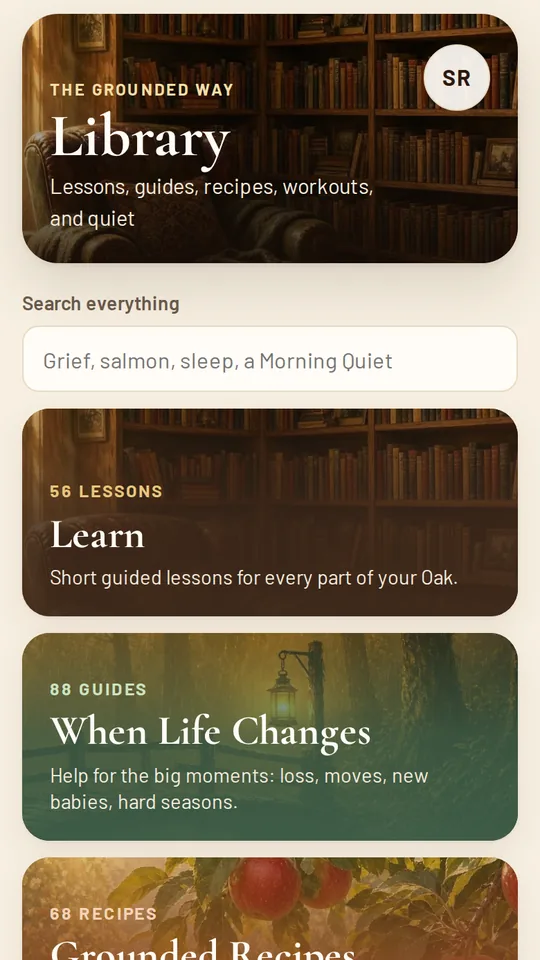
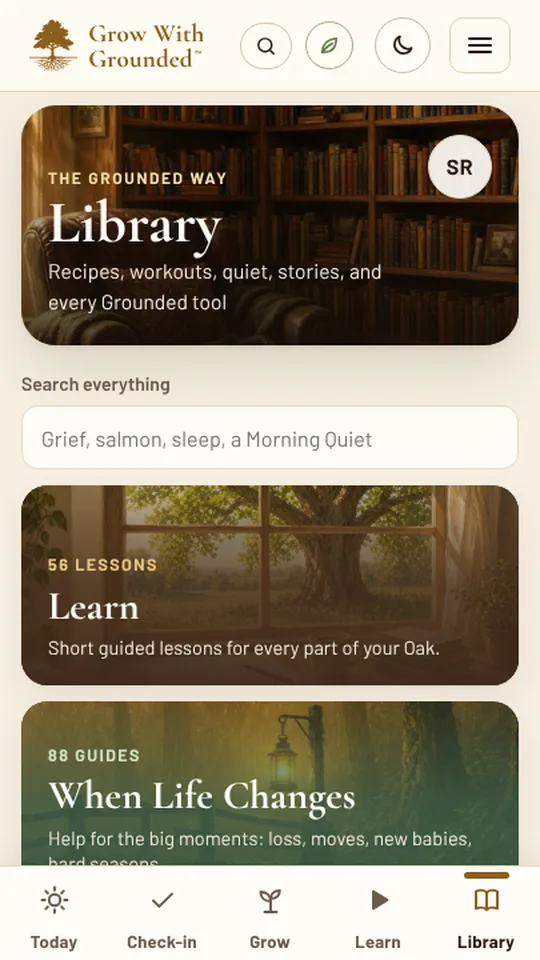
BLD 911: one Grounded Meditation shelf; Grounded Fitness and Grounded Seasons names; lesson cards painted by topic; The Grounded Way page shows the five tabs with new app pictures
Claude-Session: https://claude.ai/code/session_01WcZgsAiFdTphwpdYq1mWZF

diff --git a/home/home.js b/home/home.js
@@ -801,7 +801,7 @@
   var SUBS = {
     today: { log: 'Log a Plate or a Note', tending: 'Tending' },
     week: { holidays: 'Holidays and Gatherings', shop: 'Shopping List', prep: 'Sunday Together Prep', own: 'My Own Items' },
-    library: { holidays: 'Holidays and Gatherings', workouts: 'Workouts' },
+    library: { holidays: 'Holidays and Gatherings', workouts: 'Grounded Fitness' },
     me: { numbers: 'Numbers', household: 'Household', settings: 'Settings', privacy: 'Privacy' }
   };
   // The old section names, for the fallback while GGHealth.render is missing.
@@ -935,7 +935,7 @@
     var root = app(), tab = r.tab === 'me' ? (S.under || 'today') : r.tab;
     if (r.tab !== 'me') { S.under = tab; S.sheetDepth = 0; S.sheetPushed = 0; }
     var sub = r.tab === 'me' ? '' : r.sub, body;
-    if (sub) body = subbarHtml(tab, sub) + '<div id="hm-tend" class="hm-sec" data-sec="' + sub + '"><div class="hm-loading">Opening ' + esc(SUBS[tab][sub]) + '…</div></div>';
+    if (sub) body = subbarHtml(tab, sub) + (sub === 'quiet' ? medTopHtml() : '') + '<div id="hm-tend" class="hm-sec" data-sec="' + sub + '"><div class="hm-loading">Opening ' + esc(SUBS[tab][sub]) + '…</div></div>';
     else body = tabHtml(tab);
     root.innerHTML = shellHtml(tab, body);
     paintTabbar(tab);
@@ -1827,9 +1827,11 @@
       { id: 'life', name: 'When Life Changes', count: lc ? cnt(lc.length, 'guide', 'guides') : '', plain: 'Guides for big moments', line: 'Help for the big moments: loss, moves, new babies, hard seasons.', cls: 'hm-sh-life', art: HERO + 'page-hard-seasons-narrow.webp' },
       // BLD 899 (Chris: "holiday gatherings [needs no] card in library just put this in the recipes"): Holidays and Gatherings lives inside Grounded Recipes.
       { id: 'recipes', name: 'Grounded Recipes', count: cnt(rc, 'recipe', 'recipes'), plain: 'Every meal', line: 'Every meal, party food, sauces and dressings, celebration drinks, and the holidays, sized for your table' + (tableOf() ? ' of ' + tableOf() : '') + ', guided step by step.', cls: 'hm-sh-rec', art: IMG + 'recipes-narrow.webp' },
-      member() ? { id: 'workouts', name: 'Workouts', count: cnt(num(c.workouts), 'workout', 'workouts'), plain: 'Every Workout', line: 'Every workout we have built, by category, with a coach.', cls: 'hm-sh-work', art: IMG + 'move-strength.webp' } : null,
-      member() ? { id: 'quiet', name: 'Quiet and Meditation', count: cnt(num(c.meditations), 'practice', 'practices'), plain: 'Morning and evening', line: 'Breath and stillness, and a sacred practice when you choose it.', cls: 'hm-sh-quiet', art: IMG + 'quiet-meditation.webp' }
-        : { id: 'quiet', name: 'Quiet', count: '', plain: 'Today\'s meditation', line: 'Today\'s meditation, Morning Quiet, and Get Grounded Now: calm in a minute or two.', cls: 'hm-sh-quiet', art: IMG + 'quiet-meditation.webp' }
+      member() ? { id: 'workouts', name: 'Grounded Fitness', count: cnt(num(c.workouts), 'workout', 'workouts'), plain: 'Every Workout', line: 'Every workout, by category, with a coach, and the 12-week program.', cls: 'hm-sh-work', art: IMG + 'move-strength.webp' } : null,
+      // BLD 911 (Chris: "we have 2 meditation sets too.. join or rename", then "1"): one Grounded Meditation: today's pick, your
+      // week of seven (Tending's), and the full library by need (Membership), on one shelf.
+      member() ? { id: 'quiet', name: 'Grounded Meditation', count: cnt((num(c.meditations) || 0) + mItems('meditation').length, 'meditation', 'meditations'), plain: 'Today, your week, and the library', line: 'Today\'s meditation, your week of seven, and the full library for sleep, worry, grief, focus, and more.', cls: 'hm-sh-quiet', art: IMG + 'quiet-meditation.webp' }
+        : { id: 'quiet', name: 'Grounded Meditation', count: '', plain: 'Today\'s meditation', line: 'Today\'s meditation, Morning Quiet, and Get Grounded Now: calm in a minute or two.', cls: 'hm-sh-quiet', art: IMG + 'quiet-meditation.webp' }
     ].filter(Boolean);
   }
   function shelfHtml(s) {
@@ -1887,7 +1889,7 @@
     else if (id === 'workouts') goTo('library=workouts');
     else if (id === 'quiet') { if (!member()) { openDailyMed(); return; } if (hasFn('render') && hasFn('counts') && num((hCall('counts') || {}).meditations)) goTo('library=quiet'); else openFrame(new URL('/get-grounded-now.html', location.href)); }
   }
-  SUBS.library.quiet = 'Quiet and Meditation';
+  SUBS.library.quiet = 'Grounded Meditation';
   OLDSEC.quiet = 'today';
 
   /* ---------- the profile sheet ---------- */
@@ -2473,7 +2475,7 @@
       var mm = arr(info.medMins), meds = arr(info.meds);
       b = wpK('Mind · grows Bark', 'bark') + wpH('A quiet place in your day') + '<p class="hm-wp-lead">Seven guided meditations, a new one each day of the week' + (mm.length === 2 ? ', about ' + mm[0] + ' minutes to start, growing to ' + mm[1] : '') + '.</p>' +
         '<div>' + wpLbl('How often') + '<div class="hm-wp-chips">' + Object.keys(WP_MED).map(function (k) { return wpChip('set:med:' + k, WP_MED[k], d.med === k, 'bark'); }).join('') + '</div></div>' +
-        (d.med !== 'later' ? '<div>' + wpLbl('When') + '<div class="hm-wp-chips">' + [['morning', 'Morning'], ['afternoon', 'Afternoon'], ['evening', 'Evening']].map(function (x) { return wpChip('set:medTime:' + x[0], x[1], d.medTime === x[0], 'bark'); }).join('') + '</div></div>' : '<p class="hm-wp-lead sm">Meditation waits in the Library, under Quiet and Meditation, whenever you like.</p>') +
+        (d.med !== 'later' ? '<div>' + wpLbl('When') + '<div class="hm-wp-chips">' + [['morning', 'Morning'], ['afternoon', 'Afternoon'], ['evening', 'Evening']].map(function (x) { return wpChip('set:medTime:' + x[0], x[1], d.medTime === x[0], 'bark'); }).join('') + '</div></div>' : '<p class="hm-wp-lead sm">Meditation waits in the Library, under Grounded Meditation, whenever you like.</p>') +
         (meds.length && d.med !== 'later' ? '<div class="hm-wp-card">' + wpK(d.med === 'daily' ? 'This week' : d.med === 'few' ? 'Tuesday, Thursday, and Saturday' : 'Sunday', 'bark') + '<small class="hm-wp-small">' + esc(meds.filter(function (m) { return wpMedOn(d.med, WP_DOW.indexOf(m.day)); }).map(function (m) { return m.title; }).join(', ')) + '</small></div>' : '');
       f = wpBtn('next', 'Next');
     } else if (i === 4) {
@@ -3173,7 +3175,7 @@
   var INVITE = {
     plan: ['The Full Growth Plan', 'Membership opens every practice you choose, each day, plus your own custom practices, trends, practice history, and reminders.'],
     tend: ['Grounded Nutrition and Grounded Fitness', 'Membership opens meal plans, My Menu, one shopping list, Sunday Together Prep, Grounded Cooking in your plan, health numbers, the 12-week program, and every guided workout with a coach.'],
-    library: ['Grow Deeper', 'Membership opens the Grounded Meditation library, Grounded Spirit programs, Grounded Relationships programs, the seasons programs, and every Grounded Story read aloud.'],
+    library: ['Grow Deeper', 'Membership opens the Grounded Meditation library, Grounded Spirit programs, Grounded Relationships programs, Grounded Seasons, and every Grounded Story read aloud.'],
     numbers: ['Your Health Numbers', 'Membership opens Labs, the LDL Path, My Heart Risk, and PREVENT, kept on this device inside your locked profile.'],
     sober: ['Living Sober, the Whole Year', 'Membership opens daily words for every day of the year, Living Sober Together, and My Week trends.']
   };
@@ -3359,7 +3361,7 @@
     { id: 'meditation', name: 'Grounded Meditation', line: 'Guided meditations for sleep, worry, grief, focus, and more.', art: IMG + 'quiet-meditation.webp', cls: 'hm-sh-quiet' },
     { id: 'spirit', name: 'Grounded Spirit', line: 'Deeper guided programs for your connection with God and the sacred, in your own tradition or your own way.', art: IMG + 'tend-spirit.webp', cls: 'hm-sh-learn' },
     { id: 'relationships', name: 'Grounded Relationships', line: 'Listening, repair, unplugged time, family dinner, and a weekly connection plan.', art: IMG + 'tend-people.webp', cls: 'hm-sh-life' },
-    { id: 'seasons', name: 'Seasons Programs', line: 'Guided programs for the seasons of life, and Living Sober for the whole year.', art: HERO + 'page-hard-seasons-narrow.webp', cls: 'hm-sh-life' }
+    { id: 'seasons', name: 'Grounded Seasons', line: 'Guided programs for the seasons of life, and Living Sober for the whole year.', art: HERO + 'page-hard-seasons-narrow.webp', cls: 'hm-sh-life' }
   ];
   /* A section may be a list of items, {items: [...]}, or {programs: [{title, items or sessions}]}; items carry scenes. */
   function mItems(name) {
@@ -3375,7 +3377,7 @@
   }
   function mShelfHtml() {
     if (!member()) return '';
-    return MSHELVES.map(function (s) { var n = mItems(s.id).length; return shelfHtml({ id: 'm-' + s.id, name: s.name, count: n ? n + (n === 1 ? ' session' : ' sessions') : 'Membership', plain: 'Membership', line: s.line, cls: s.cls, art: s.art }); }).join('');
+    return MSHELVES.filter(function (s) { return s.id !== 'meditation'; }).map(function (s) { var n = mItems(s.id).length; return shelfHtml({ id: 'm-' + s.id, name: s.name, count: n ? n + (n === 1 ? ' session' : ' sessions') : 'Membership', plain: 'Membership', line: s.line, cls: s.cls, art: s.art }); }).join('');
   }
   function openMShelf(id) {
     var s = MSHELVES.filter(function (x) { return x.id === id; })[0]; if (!s) return;
@@ -3444,6 +3446,13 @@
     var x = window.GG_START_VIDEOS && !plainNow() ? dailyMed('spirit') : null; if (!x) return '';
     return '<article class="hm-card hm-p-roots hm-dmed"><div class="hm-hd">' + pb(IMG + 'tend-spirit.webp') + '<div style="min-width:0"><div class="hm-k">Today\'s Spirit Practice</div><h3 class="hm-h3">' + esc(x.title) + '</h3></div></div><p class="hm-sub">' + esc((x.mins ? 'About ' + x.mins + ' minutes. ' : '') + (x.blurb || '')) + '</p><div class="hm-acts tight"><button type="button" class="hm-btn sm hm-pill" data-hm-dmed="spirit">' + I('play') + 'Begin</button></div></article>';
   }
+  /* Grounded Meditation's top (BLD 911): today's pick, then the full library by need; Tending's week of seven follows. */
+  function medTopHtml() {
+    var n = mItems('meditation').length;
+    var dm = dailyMedHtml(), sp = dailySpiritHtml(); if (sp && dm.indexOf(sp) === 0) dm = dm.slice(sp.length);
+    return dm + (n ? '<article class="hm-card hm-gcard hm-p-bark"><div class="hm-hd">' + pb(IMG + 'quiet-meditation-sq.webp') + '<div><div class="hm-time">The Full Library</div><h3 class="hm-h3">' + n + ' Meditations by Need</h3></div></div><p class="hm-sub">Sleep, worry, grief, focus, and more, each one guided.</p><div class="hm-acts tight"><button type="button" class="hm-btn sm hm-pill" data-hm-shelf="m-meditation">' + I('play') + 'Open the Library</button></div></article>' : '') +
+      '<h2 class="hm-label">Your Week of Meditation</h2>';
+  }
   function openDailyMed(sec) {
     load(START_JS).then(function () {
       var x = dailyMed(sec); if (!x) { openFrame(new URL('/get-grounded-now.html', location.href)); return; }
@@ -3495,9 +3504,19 @@
   var ART_JS = '/shared/learn-art.js?v=b908';
   function heroSrc(im) { return /\//.test(im) ? HERO + im + '.webp' : im === 'marriage' ? '/heartwood/hero-wide.webp' : HERO + im + '-wide.webp'; }
   // A lesson's painting: the first painting in its art plan (shared/learn-art.js), or the tree's own painting.
-  function lessonArt(app, id, i) {
-    void i;
-    return planArt(app + ':' + id) || planArt(id) || treeArt(app);
+  // A lesson card's painting by its topic (BLD 911: the art plans spread paintings across scenes, so the first one can miss
+  // the topic); the tree's own painting for welcomes, check-ins, and anything else.
+  var TOPIC_ART = [
+    [/roots|spirit|prayer|faith|sacred|gratitude/i, IMG + 'tend-spirit.webp'], [/bark|mind|worry|anxi|calm|breath|stress|sleep/i, IMG + 'tend-mind.webp'],
+    [/leaves|body|move|walk|stretch|food|eat|meal/i, IMG + 'tend-move.webp'], [/branches|relationship|family|friend|marriage|together|household/i, IMG + 'tend-people.webp'],
+    [/trunk|meaning|purpose|values/i, HERO + 'page-growth-narrow.webp'], [/fruit|hope|joy/i, IMG + 'tend-fruit.webp'],
+    [/growth plan|practice|plan\b/i, IMG + 'growth-plan.webp'], [/when life changes|grief|loss|hard season/i, HERO + 'page-hard-seasons-narrow.webp'],
+    [/today, week|season|rings|progress/i, IMG + 'this-season.webp']
+  ];
+  function lessonArt(app, id, i, title) {
+    void i; var s = String(title || '');
+    for (var k = 0; k < TOPIC_ART.length; k++) if (TOPIC_ART[k][0].test(s)) return TOPIC_ART[k][1];
+    void id; return treeArt(app);
   }
   // BLD 911 (Chris: "when pet dies has table with plates of food"): every card shows its own painting, from its own video's
   // art plan; a card with no plan shows its tree's painting.
@@ -3515,7 +3534,7 @@
   }
   function findLesson(tree, id) { var out = null; arr(tracksOf(tree)).forEach(function (t) { arr(t.lessons).forEach(function (l) { if (l && l.id === id) out = { l: l, t: t }; }); }); return out; }
   function lessonCard(tree, l, i) {
-    return '<button type="button" class="hm-lcard" data-hm-lesson="' + esc(l.id) + '"><span class="im"><img src="' + lessonArt(tree, l.id, i) + '" alt="" loading="lazy" decoding="async"><span class="pl">' + I('play') + '</span></span><span class="tx"><b>' + esc(l.title || '') + '</b>' + (l.mins ? '<small>' + esc(l.mins) + ' minutes</small>' : '') + '</span></button>';
+    return '<button type="button" class="hm-lcard" data-hm-lesson="' + esc(l.id) + '"><span class="im"><img src="' + lessonArt(tree, l.id, i, l.title) + '" alt="" loading="lazy" decoding="async"><span class="pl">' + I('play') + '</span></span><span class="tx"><b>' + esc(l.title || '') + '</b>' + (l.mins ? '<small>' + esc(l.mins) + ' minutes</small>' : '') + '</span></button>';
   }
   function rowHtml(title, sub, cards) { return '<div class="hm-lrow"><h2 class="hm-label">' + esc(title) + '</h2>' + (sub ? '<p class="hm-sub hm-lrsub">' + esc(sub) + '</p>' : '') + '<div class="hm-lscroll">' + cards + '</div></div>'; }
   function lifeTopics(tree) {

diff --git a/the-grounded-way.html b/the-grounded-way.html
@@ -65,7 +65,7 @@
 .gw .cer-cta-band .btn{margin:6px;}
 .gw-launch{display:inline-block;margin:14px auto 0;padding:6px 16px;border-radius:999px;background:#C9952F;color:#2C1810;font-family:'Barlow Condensed',sans-serif;font-weight:700;font-size:16px;letter-spacing:1.4px;text-transform:uppercase;line-height:1.3;}
 .cer-cta-band .gw-launch{margin:0 0 14px;}
-/* BLD 884: How It Works, the four tabs with real pictures of the app (desktop and phone) */
+/* BLD 884: How It Works, the tabs with real pictures of the app (five since BLD 911) (desktop and phone) */
 .gw-tabs{display:flex;flex-direction:column;gap:44px;margin-top:30px;}
 .gw-tab{display:grid;grid-template-columns:minmax(0,1fr) minmax(0,1.55fr);gap:36px;align-items:center;}
 .gw-tab:nth-child(even) .gw-shot{order:-1;}
@@ -207,7 +207,7 @@
     <h2>Start today, and go as deep as you like.</h2>
     <div class="gw-tiers">
       <div class="card" style="--k:#5F7D48"><h3>Start</h3><p>Open to you today: your profile and age tree, quick and full check-ins, a basic growth plan with one practice a day for each of the four, Do Tomorrow, Today&rsquo;s Encouragement and the mantra, Living Sober daily, calm and grounding practices, one daily meditation, and core Spirit practices. On the website: Grounded Recipes, the Readings Library, When Life Changes, Get Grounded Now, and Stories.</p></div>
-      <div class="card" style="--k:#8B5E1A"><h3>Member</h3><p>One membership, the full suite: Grounded Nutrition and Grounded Fitness, Grounded Meditation, deeper Spirit programs, Grounded Relationships with the Grove, the full growth plan, the seasons programs, and Grounded Stories read aloud. Membership opens soon.</p></div>
+      <div class="card" style="--k:#8B5E1A"><h3>Member</h3><p>One membership, the full suite: Grounded Nutrition and Grounded Fitness, Grounded Meditation, deeper Spirit programs, Grounded Relationships with the Grove, the full growth plan, Grounded Seasons, and Grounded Stories read aloud. Membership opens soon.</p></div>
       <div class="card" style="--k:#3F6F94"><h3>Household</h3><p>One membership for everyone in your home, up to six people, so the whole family grows together. Opens with Membership.</p></div>
       <div class="card" style="--k:#7A4E2D"><h3>Guided</h3><p>Walk The Grounded Way with a Certified Grounded Guide, trained and certified by Grow With Grounded to use Grounded tools. A Find a Guide directory is on the way.</p></div>
       <div class="card" style="--k:#7A3FA8"><h3>Organizations</h3><p>Churches, schools, and hospices can open The Grounded Way to everyone they serve, with Guide seats and training included. <a class="text-link" href="/organizations.html">Learn about organizations</a></p></div>
@@ -249,20 +249,22 @@
 <section id="how">
   <div class="wrap cp-body">
     <div class="eyebrow">How It Works</div>
-    <h2>Four tabs, one calm day.</h2>
-    <p class="gw-lead">The Grounded Way opens on Today. Four tabs along the bottom hold everything else, and each one is shown here just as it looks in the app.</p>
+    <h2>Five tabs, one calm day.</h2>
+    <p class="gw-lead">The Grounded Way opens on Today. Five tabs along the bottom hold everything else, and each one is shown here just as it looks in the app. Your tree comes from your profile, so every tab is made for your age.</p>
     <div class="gw-tabs">
-      <article class="gw-tab" id="tab-today"><div><p class="gw-n">Tab 1</p><h3>Today</h3><p>Your whole day in order, with Right Now at the top: your growth plan practices, meals, workouts, Morning Quiet, your meditation, and your tree check-in, each with a circle to tap when it is done. Beside the day sit For You Today, A Sacred Pause, Tonight&rsquo;s Question, and your progress.</p><p class="gw-try">Tap the circle on one practice, and watch the day fill.</p></div>
-        <figure class="gw-shot"><img class="gw-w" src="/shared/heroes/way/app/today-wide.webp?v=b884" alt="The Today tab on a computer: a big painted morning with the day and date, Right Now with the next practice, and Living Sober with today&rsquo;s mantra" width="1200" height="750" loading="lazy"><img class="gw-p" src="/shared/heroes/way/app/today-phone.webp?v=b884" alt="The Today tab on a phone: the day and date over a painted oak, the count tended today, and Right Now" width="540" height="960" loading="lazy"></figure></article>
-      <article class="gw-tab" id="tab-week"><div><p class="gw-n">Tab 2</p><h3>Week</h3><p>Seven days at a glance, or the whole month: dinners, workouts, and rest days, with Sunday Together Prep and the Weekly Batch. Add any recipe to My Menu or swap a meal, and one tap on the Shop button opens a single shopping list, sized for your table, with My Own Shopping Items alongside.</p><p class="gw-try">Look over the next few days and pick your shopping day.</p></div>
-        <figure class="gw-shot"><img class="gw-w" src="/shared/heroes/way/app/week-wide.webp?v=b884" alt="The Week tab on a computer: seven days, each with its dinner and workout, beside the button that opens the shopping list" width="1200" height="750" loading="lazy"><img class="gw-p" src="/shared/heroes/way/app/week-phone.webp?v=b884" alt="The Week tab on a phone: the shopping list button at the top, then the days with their dinners" width="540" height="960" loading="lazy"></figure></article>
-      <article class="gw-tab" id="tab-grow"><div><p class="gw-n">Tab 3</p><h3>Grow</h3><p>Your tree, with the four you tend and the two that grow, your Growing Edge, this season, your history, and your Growth Plan. Check-ins open right inside the app, and every practice you choose shows up on Today.</p><p class="gw-try">Open your Growth Plan and choose one practice to begin with.</p></div>
-        <figure class="gw-shot"><img class="gw-w" src="/shared/heroes/way/app/grow-wide.webp?v=b884" alt="The Grow tab on a computer: the tree painting with its parts, This Season, and Your Growth Plan" width="1200" height="750" loading="lazy"><img class="gw-p" src="/shared/heroes/way/app/grow-phone.webp?v=b884" alt="The Grow tab on a phone: the tree with Roots, Trunk, Bark, Branches, Leaves, and Fruit" width="540" height="960" loading="lazy"></figure></article>
-      <article class="gw-tab" id="tab-library"><div><p class="gw-n">Tab 4</p><h3>Library</h3><p>One search box for everything. Learn, When Life Changes, Grounded Recipes with Holidays and Gatherings, Every Workout, and Quiet and Meditation wait on bright painted shelves, made for your tree and your table.</p><p class="gw-try">Search one word, like sleep or calm, and see what is waiting.</p></div>
-        <figure class="gw-shot"><img class="gw-w" src="/shared/heroes/way/app/library-wide.webp?v=b884" alt="The Library tab on a computer: a search box over painted shelves for Learn, When Life Changes, Grounded Recipes, Workouts, and Quiet and Meditation" width="1200" height="750" loading="lazy"><img class="gw-p" src="/shared/heroes/way/app/library-phone.webp?v=b884" alt="The Library tab on a phone: search, then the Learn and When Life Changes shelves" width="540" height="960" loading="lazy"></figure></article>
+      <article class="gw-tab" id="tab-today"><div><p class="gw-n">Tab 1</p><h3>Today</h3><p>Your whole day in order, with Right Now at the top: your growth plan practices, meals, workouts, Morning Quiet, your meditation, and your tree, each with a circle to tap when it is done. Your week opens from here too, with dinners, workouts, Sunday Together Prep, and one shopping list.</p><p class="gw-try">Tap the circle on one practice when you do it, and watch your day fill.</p></div>
+        <figure class="gw-shot"><img class="gw-w" src="/shared/heroes/way/app/today-wide.webp?v=b911" alt="The Today tab on a computer: a big painted morning with the day and date, and Right Now with the next practice" width="1200" height="750" loading="lazy"><img class="gw-p" src="/shared/heroes/way/app/today-phone.webp?v=b911" alt="The Today tab on a phone: the day and date over a painted oak, and Right Now" width="540" height="960" loading="lazy"></figure></article>
+      <article class="gw-tab" id="tab-checkin"><div><p class="gw-n">Tab 2</p><h3>Check-in</h3><p>How each part of your tree is growing: Strong, Steady, or a Growing Edge. Check In or take a Quick Check-in right here, with questions made for your tree, and watch this season and your rings grow.</p><p class="gw-try">Take a Quick Check-in, about two minutes.</p></div>
+        <figure class="gw-shot"><img class="gw-w" src="/shared/heroes/way/app/checkin-wide.webp?v=b911" alt="The Check-in tab on a computer: the oak painting, your tree with each part, and This Season" width="1200" height="750" loading="lazy"><img class="gw-p" src="/shared/heroes/way/app/checkin-phone.webp?v=b911" alt="The Check-in tab on a phone: the oak painting over Check-in" width="540" height="960" loading="lazy"></figure></article>
+      <article class="gw-tab" id="tab-grow"><div><p class="gw-n">Tab 3</p><h3>Grow</h3><p>Your Growth Plan, one plan for your practices, body, mind, spirit, and your table, with your week, this season, your tree&rsquo;s own book, and your family.</p><p class="gw-try">Open your Growth Plan and choose one practice to begin with.</p></div>
+        <figure class="gw-shot"><img class="gw-w" src="/shared/heroes/way/app/grow-wide.webp?v=b911" alt="The Grow tab on a computer: Your Oak Grows With You, Your Week, This Season, and Your Growth Plan" width="1200" height="750" loading="lazy"><img class="gw-p" src="/shared/heroes/way/app/grow-phone.webp?v=b911" alt="The Grow tab on a phone: painted cards for your tree, your week, and your season" width="540" height="960" loading="lazy"></figure></article>
+      <article class="gw-tab" id="tab-learn"><div><p class="gw-n">Tab 4</p><h3>Learn</h3><p>Short lessons and guides for when life changes, chosen for your tree, each one playing right here in a small window.</p><p class="gw-try">Play one lesson, about three minutes.</p></div>
+        <figure class="gw-shot"><img class="gw-w" src="/shared/heroes/way/app/learn-wide.webp?v=b911" alt="The Learn tab on a computer: rows of painted lessons chosen for your tree" width="1200" height="750" loading="lazy"><img class="gw-p" src="/shared/heroes/way/app/learn-phone.webp?v=b911" alt="The Learn tab on a phone: For You, Lessons, and When Life Changes, with painted lessons" width="540" height="960" loading="lazy"></figure></article>
+      <article class="gw-tab" id="tab-library"><div><p class="gw-n">Tab 5</p><h3>Library</h3><p>One search box for everything: Grounded Recipes with Holidays and Gatherings, Grounded Fitness, Grounded Meditation, and every Grounded tool, on bright painted shelves made for your tree and your table.</p><p class="gw-try">Search one word, like sleep or calm, and see what is waiting.</p></div>
+        <figure class="gw-shot"><img class="gw-w" src="/shared/heroes/way/app/library-wide.webp?v=b911" alt="The Library tab on a computer: a search box over painted shelves" width="1200" height="750" loading="lazy"><img class="gw-p" src="/shared/heroes/way/app/library-phone.webp?v=b911" alt="The Library tab on a phone: search, then the painted shelves" width="540" height="960" loading="lazy"></figure></article>
     </div>
     <div class="gw-also">
-      <div class="card" style="--k:#8B5E1A"><h3>Your Initials</h3><p>Tap your initials, top right, for Numbers, Household, Settings, and Privacy, plus How It Works, a short painted tour of the four tabs. The tour greets you the first time you open The Grounded Way.</p></div>
+      <div class="card" style="--k:#8B5E1A"><h3>Your Initials</h3><p>Tap your initials, top right, for Numbers, Household, Settings, and Privacy, plus Who Is Tending? for everyone on your device, and How It Works, a short painted tour of the five tabs. The tour greets you the first time you open The Grounded Way.</p></div>
       <div class="card" style="--k:#5F7D48"><h3>Your Practices</h3><p>Every practice in your tree&rsquo;s Growth Plan becomes its own card on Today, in the order of your day. A check on Today counts in your tree too, so your progress and seasons keep growing.</p></div>
       <div class="card" style="--k:#3F6F94"><h3>Living Sober</h3><p>Turn on Living Sober in your tree, and your day count, today&rsquo;s mantra, words of encouragement, and your next medallion shine on Today and Grow. You define your own sobriety.</p></div>
     </div>

diff --git a/organizations.html b/organizations.html
@@ -317,7 +317,7 @@ body.bro-open{overflow:hidden;}
   <div class="wrap">
     <h2>What your license includes</h2>
     <div class="org-why">
-      <div class="card"><h3>Full Membership for Everyone</h3><p>Everyone your organization serves has full Membership in The Grounded Way while they belong: Grounded Nutrition and Fitness, Meditation, Spirit, Relationships with The Grove, the full growth plan, the seasons programs, and Grounded Stories. Each person tends four parts, Roots: Spirit, Bark: Mind, Leaves: Body, and Branches: Relationships, and meaning and hope grow from that tending.</p></div>
+      <div class="card"><h3>Full Membership for Everyone</h3><p>Everyone your organization serves has full Membership in The Grounded Way while they belong: Grounded Nutrition and Fitness, Meditation, Spirit, Relationships with The Grove, the full growth plan, Grounded Seasons, and Grounded Stories. Each person tends four parts, Roots: Spirit, Bark: Mind, Leaves: Body, and Branches: Relationships, and meaning and hope grow from that tending.</p></div>
       <div class="card"><h3>Trained Guides</h3><p>A Guide for every tree: Maple Guide, Aspen Guide, Pine Guide, Birch Guide, Oak Guide, Sequoia Guide, Willow Guide, and Grove Guide for families and groups. For Guides training comes with scenarios, signed agreements, yearly renewal, and a Certified Grounded Guide certificate for each person, plus support guides, the Guide&rsquo;s shelf, and Learn, including Walking with Illness and Disability and Walking with Someone Growing Sober.</p></div>
       <div class="card"><h3>Safety Built In</h3><p>Every visit begins with consent and the room rule, and Guides ask open questions and stay present. When harm comes up on its own, every Guide follows the Grounded Response Plan, built on the mandatory reporting law of the state where the visit happens: the Guide reaches out to the right people and tells the person what they are doing. It is set up with your own crisis lines and reporting contact.</p></div>
       <div class="card"><h3>Support for Your People</h3><p>A launch kit, a person to call, support videos for your own staff, and training days with Chris and Kayti when you want them.</p></div>
